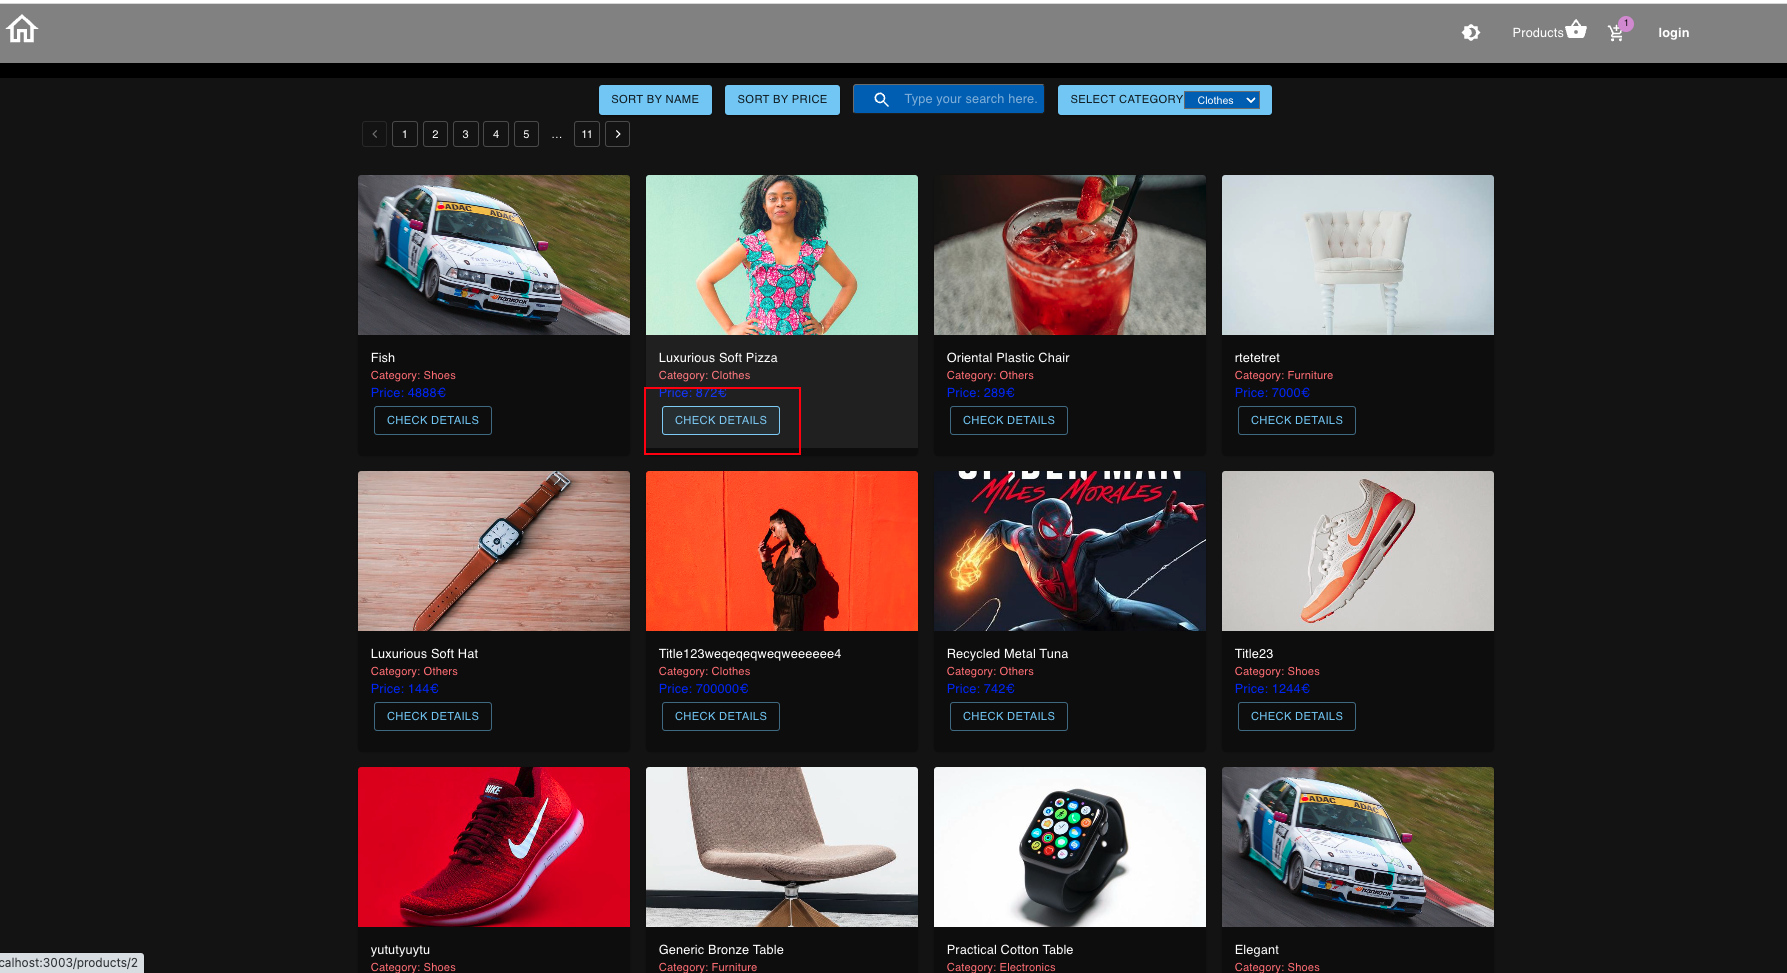
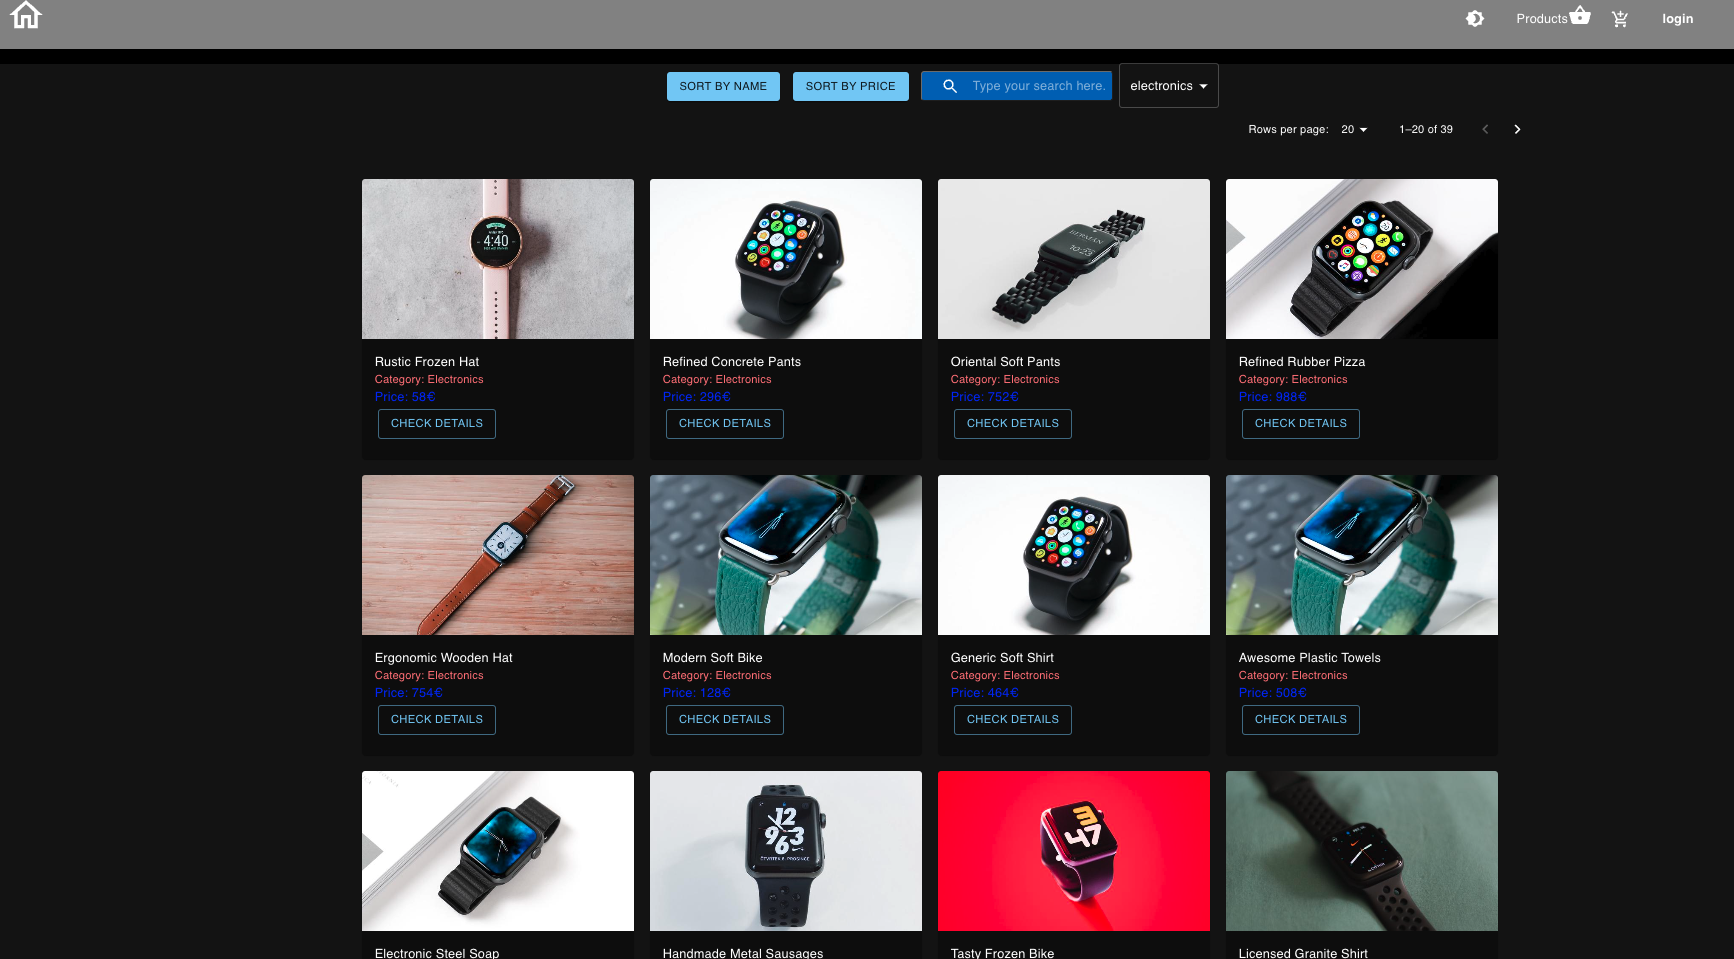
fix pagination to get exact category, fix Readme file

diff --git a/src/components/product/Products.tsx b/src/components/product/Products.tsx
@@ -1,8 +1,7 @@
 import React, { useEffect, useState, useDeferredValue } from 'react'
 import Grid from '@mui/material/Grid';
-import { Box, Button, Container, CssBaseline} from '@mui/material';
+import { Box, Button, Container, CssBaseline, MenuItem, Select, TablePagination} from '@mui/material';
 import SearchIcon from '@mui/icons-material/Search';
-import Pagination from '@mui/material/Pagination';
 
 import { useAppDispatch, useAppSelector } from '../../hooks/reduxHook';
 import { sortByName, sortByPrice} from '../../redux/reducers/productReducer';
@@ -16,14 +15,23 @@ const Products = () => {
   const [isLoading, setIsLoading] = useState(true);
   const [page, setPage] = useState(0);
   const deferredQuery = useDeferredValue(search);
-  let rowsPerPage = 20;
+  const [rowsPerPage, setRowsPerPage] = useState(20);
   let products = useAppSelector(state => state.productReducer.filter(item => {
     return item.title.toLowerCase().includes(deferredQuery.toLowerCase())
   }))
-  const handleChange = (event: React.ChangeEvent<unknown>, value: number) => {
-    setPage(value);
+   const handleChangePage = (
+    event: React.MouseEvent<HTMLButtonElement> | null,
+    newPage: number,
+  ) => {
+    setPage(newPage);
   };
-  const count = Math.ceil(products.length / rowsPerPage);
+
+  const handleChangeRowsPerPage = (
+    event: React.ChangeEvent<HTMLInputElement | HTMLTextAreaElement>,
+  ) => {
+    setRowsPerPage(parseInt(event.target.value, 10));
+    setPage(0);
+  };
   const [filteredValue, setFilteredValue] = useState("");
   const categories = useAppSelector(state => state.categoryReducer)
   const dispatch = useAppDispatch()
@@ -44,11 +52,12 @@ const Products = () => {
   } else{
   products.map(option=>(option.category.name.toLowerCase().includes(filteredValue)))
   }
+
   return (
       <Container maxWidth="xl">
       <CssBaseline />
       <Box  justifyContent="center"  alignItems="center" textAlign="center"  sx={{ '& button': { m: 1 } }}>
-        <div>
+        
           <Button onClick={() => { sortName() }} variant="contained" component="label" sx={{ m: 1 }}>Sort by Name</Button>
           <Button onClick={() => { sortByProductPriceN() }} variant="contained" component="label" sx={{ m: 1 }}>Sort by Price</Button>
           <SearchMenu >
@@ -60,54 +69,54 @@ const Products = () => {
                   inputProps={{ 'aria-label': 'search'}}
               value={search}
              
-                  onChange={e => setSearch(e.target.value)}  
+                  onChange={(e: { target: { value: React.SetStateAction<string>; }; }) => setSearch(e.target.value)}  
             />
           </SearchMenu>
-          <Button variant="contained" component="label" sx={{ m: 1 }}>Select Category
-            <select value={filteredValue} onChange={(e) => setFilteredValue(e.target.value)} >
-              {categories.map(option => (
-                <option key={option.id}>
-                  {option.name.toLowerCase()}
-                </option>
-              ))}
-            </select>
-          </Button>
-        </div>
+          <Select
+            labelId="demo-simple-select-label"
+            id="demo-simple-select"
+            value={filteredValue} onChange={(e) => setFilteredValue(e.target.value)}
+            label="products"
+          >
+            {categories.map(option => (
+              <MenuItem value={option.name.toLowerCase() } key={option.id}>{option.name.toLowerCase()}</MenuItem>   ))}
+          </Select>
       </Box>
-      <Pagination
-        count={count}
-        page={page}
-        onChange={handleChange} variant="outlined"        
-        shape="rounded"        
-        color="standard"
-        sx={{ml:3}}
-      />
+      <TablePagination
+          rowsPerPageOptions={[5, 10, 20, 50, 100]}
+          component="div"
+          count={products.length}
+          rowsPerPage={rowsPerPage}
+          page={page}
+          onPageChange={handleChangePage}
+          onRowsPerPageChange={handleChangeRowsPerPage}
+        />
       {isLoading && <Loading/>}{
         !isLoading && (
           <Grid container pt="50px" justifyContent="center" alignItems="center" spacing={{ xs: 2, md: 3 }} columns={{ xs: 4, sm: 8, md: 12 }}>
-        {products.slice(page * rowsPerPage , page * rowsPerPage + rowsPerPage).map((product) => (
-          <ProductCard
-            
-            key={product.id}
-            images={product.images}
-            title={product.title}
-            price={product.price}
-            category={product.category}
-            description={product.description}
-            id={product.id}
-           />
+            {products.slice(page * rowsPerPage, page * rowsPerPage + rowsPerPage).map((product) => (
+          <Grid  key={product.id}>
+            <ProductCard
+              images={product.images}
+              title={product.title}
+              price={product.price}
+              category={product.category}
+              description={product.description}
+              id={product.id}
+                />
+          </Grid>
         ))}
       </Grid>
         )
       }
-      <Pagination
-        count={count}
-        page={page}
-        onChange={handleChange} 
-        variant="outlined"        
-        shape="rounded"        
-        color="standard"
-        sx={{ ml: 3 , mt:3}}
+      <TablePagination
+          rowsPerPageOptions={[5, 10, 20, 50, 100]}
+          component="div"
+          count={products.length}
+          rowsPerPage={rowsPerPage}
+          page={page}
+          onPageChange={handleChangePage}
+          onRowsPerPageChange={handleChangeRowsPerPage}
       />
     </Container>
   )

diff --git a/src/components/category/Categories.tsx b/src/components/category/Categories.tsx
@@ -1,4 +1,4 @@
-import { Box, Container, Grid, Pagination } from '@mui/material'
+import { Box, Container, Grid, Pagination, TablePagination } from '@mui/material'
 import React, { useEffect, useState } from 'react'
 
 import { useAppDispatch, useAppSelector } from '../../hooks/reduxHook'
@@ -8,13 +8,22 @@ import Loading from '../loading/Loading';
 
 const Categories = () => {
   const [isLoading, setIsLoading] = useState(true);
-  const [page, setPage] = useState(1);
-  let rowsPerPage = 1;
+  const [page, setPage] = useState(0);
+   const [rowsPerPage, setRowsPerPage] = useState(3);
   const categories = useAppSelector(state => state.categoryReducer)
-  const handleChange = (event: React.ChangeEvent<unknown>, value: number) => {
-    setPage(value);
+  const handleChangePage = (
+    event: React.MouseEvent<HTMLButtonElement> | null,
+    newPage: number,
+  ) => {
+    setPage(newPage);
   };
-  const count = Math.ceil(categories.length / rowsPerPage)  ;
+
+  const handleChangeRowsPerPage = (
+    event: React.ChangeEvent<HTMLInputElement | HTMLTextAreaElement>,
+  ) => {
+    setRowsPerPage(parseInt(event.target.value, 10));
+    setPage(0);
+  };
     const dispatch = useAppDispatch()
     useEffect (() => {
       dispatch(getAllCategories())
@@ -26,24 +35,27 @@ const Categories = () => {
         {isLoading && <Loading />}{
           !isLoading && (
             <Grid container pt="50px" justifyContent="center" alignItems="center" spacing={{ xs: 2, md: 3 }} columns={{ xs: 4, sm: 8, md: 12 }}>
-            {categories.slice(page * rowsPerPage -1, page * rowsPerPage).map((category) => (
-            <CategoryCard
-            image={category.image}
-            name={category.name}
-            id={category.id}            
-          />
+              {categories.slice(page * rowsPerPage, page * rowsPerPage + rowsPerPage).map((category) => (
+                < Grid key={category.id}>
+              <CategoryCard
+                image={category.image}
+                name={category.name}
+                id={category.id}            
+              />
+            </Grid>
           ))}
           </Grid>
           )
           }
       </Box>
-      <Pagination
-        count={count}
-        page={page}
-        onChange={handleChange} variant="outlined"        
-        shape="rounded"        
-        color="standard"
-        sx={{ ml: 3 , mt:3}}
+       <TablePagination
+          rowsPerPageOptions={[3, 10, 20, 50, 100]}
+          component="div"
+          count={categories.length}
+          rowsPerPage={rowsPerPage}
+          page={page}
+          onPageChange={handleChangePage}
+          onRowsPerPageChange={handleChangeRowsPerPage}
       />
     </Container>
   )

diff --git a/src/components/user/UserList.tsx b/src/components/user/UserList.tsx
@@ -7,7 +7,7 @@ import Loading from '../loading/Loading'
 import UserCard from './UserCard'
 
 const UserList = () => {
-    const users = useAppSelector(state => state.userReducer)
+    const users = useAppSelector(state => state.userReducer.userList)
     const dispatch = useAppDispatch()
       const [isLoading, setIsLoading] = useState(true);
     useEffect(() => {
@@ -20,16 +20,18 @@ const UserList = () => {
           {isLoading && <Loading/>}{
         !isLoading && (
           <Grid container pt="50px" justifyContent="center" alignItems="center" spacing={{ xs: 2, md: 3 }} columns={{ xs: 4, sm: 8, md: 12 }}>
-        {users.userList?.map((user)=> (
-          <UserCard
-                key={user.id}
+          {Array.isArray(users)
+        ? users.map((user) => (
+          <Grid key={user.id}>
+            <UserCard
                 email={user.email}
                 name={user.name}
                 role={user.role}
                 avatar={user.avatar} id={0}
                 confirm_password={undefined}
-                password={''} />
-        ))}
+                  password={''} />
+          </Grid>
+        )):null}
       </Grid>
         )
       }

diff --git a/src/components/features/HomeCarousel.tsx b/src/components/features/HomeCarousel.tsx
@@ -9,7 +9,7 @@ import KeyboardArrowLeft from '@mui/icons-material/KeyboardArrowLeft';
 import KeyboardArrowRight from '@mui/icons-material/KeyboardArrowRight';
 import SwipeableViews from 'react-swipeable-views';
 import { autoPlay } from 'react-swipeable-views-utils';
-import { useAppSelector } from '../../hooks/reduxHook';
+
 
 const AutoPlaySwipeableViews = autoPlay(SwipeableViews);
 
@@ -63,7 +63,7 @@ const HomeCarousel = () => {
             enableMouseEvents
         >
             {images.map((step, index) => (
-            <div key={step.label}>
+            <Typography key={step.label}>
                 {Math.abs(activeStep - index) <= 2 ? (
                 <Box
                     component="img"
@@ -78,7 +78,7 @@ const HomeCarousel = () => {
                     alt={step.label}
                 />
                 ) : null}
-            </div>
+            </Typography>
             ))}
             </AutoPlaySwipeableViews>
             <Paper

diff --git a/src/test/reducers/categoryReducer.test.ts b/src/test/reducers/categoryReducer.test.ts
@@ -21,15 +21,15 @@ beforeEach(() => {
     store = createStore()
 })
 
-describe("Test all the products actions", () => {
-    test("Should return initial product state", () => {
+describe("Test all the categories actions", () => {
+    test("Should return initial category state", () => {
         expect(store.getState().categoryReducer.length).toBe(0)
     })
     test("Shou get all products", async () => {
         await store.dispatch(getAllCategories())
         expect(store.getState().categoryReducer.length).toBe(4)
     })
-    test("should create a new product", async () => {
+    test("should create a new category", async () => {
         const newCategory: CreateCategoryType = {
             id: 5,
             name: "Clothes",

diff --git a/src/redux/methods/productMethod.ts b/src/redux/methods/productMethod.ts
@@ -91,7 +91,6 @@ export const createProduct = createAsyncThunk(
             if (error.status) {
                 console.log(error.status)
             }else if (error.request) {
-                console.log(`Error from request: ${error.request}`)
             } else {
                console.log(error.config)
             }

diff --git a/src/components/category/CategoryCard.tsx b/src/components/category/CategoryCard.tsx
@@ -8,7 +8,7 @@ import { CardActionArea } from '@mui/material';
 
 import { CategoryType } from '../../types/category';
 
-const CategoryCard = ({name,image, id}: CategoryType) => {
+const CategoryCard = ({name,image}: CategoryType) => {
   return (
     <Card
       sx={{

diff --git a/src/components/Header.tsx b/src/components/Header.tsx
@@ -1,4 +1,4 @@
-import React, { useState} from 'react'
+import React from 'react'
 import { Link, useNavigate } from 'react-router-dom'
 import AppBar from '@mui/material/AppBar';
 import Box from '@mui/material/Box';

diff --git a/README.md b/README.md
@@ -51,7 +51,7 @@ profile page is only available when user logins, and user can chekout from there
     - user reducer: Register and Login
     - cart reducer: add product to cart, remove products, update products's quantity in cart
 4.  Routes to the following are private: route to user profile page is not accessible if user has not logged in.
-5. Check the website from [here]()
+5. Check the website from [here](https://femi-frontend.netlify.app/)
 6. Theme was used for light and dark mode 
 7. Pagination was created
 
@@ -96,6 +96,10 @@ When the user signs in, the user can perform activities such as create product, 
 - User's profile
 ![UserProfile](/img/Profile.png)
 
+### Reducer Test result
+
+The total of 13 test were performed on the product, category and user
+![TestResult](/img/TestResult.png)
 ##
 ```shell
 .
